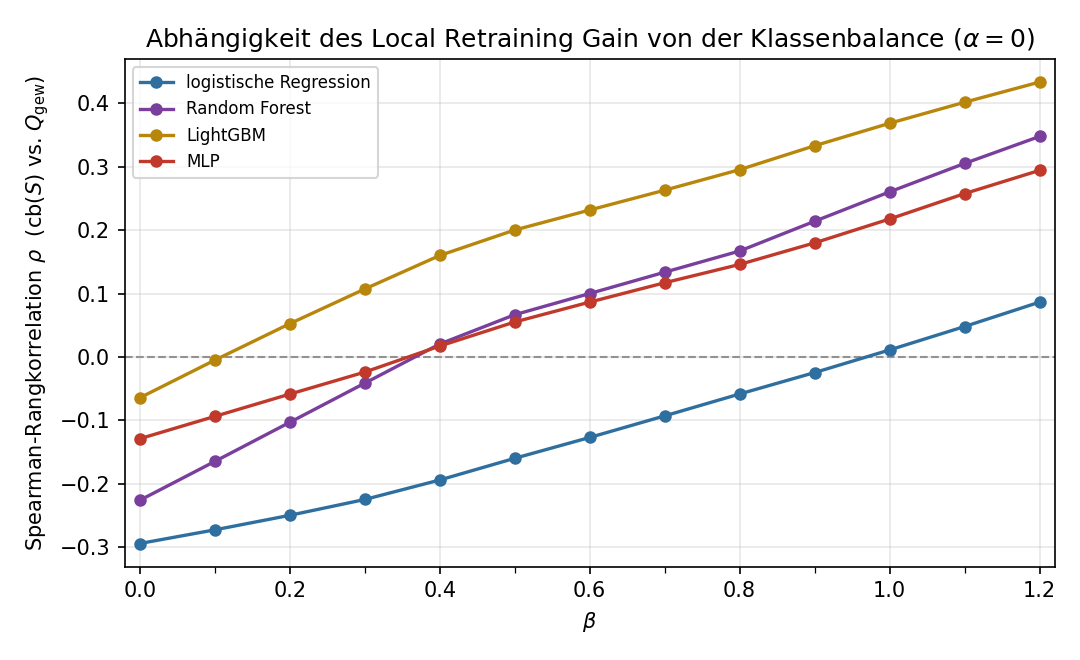
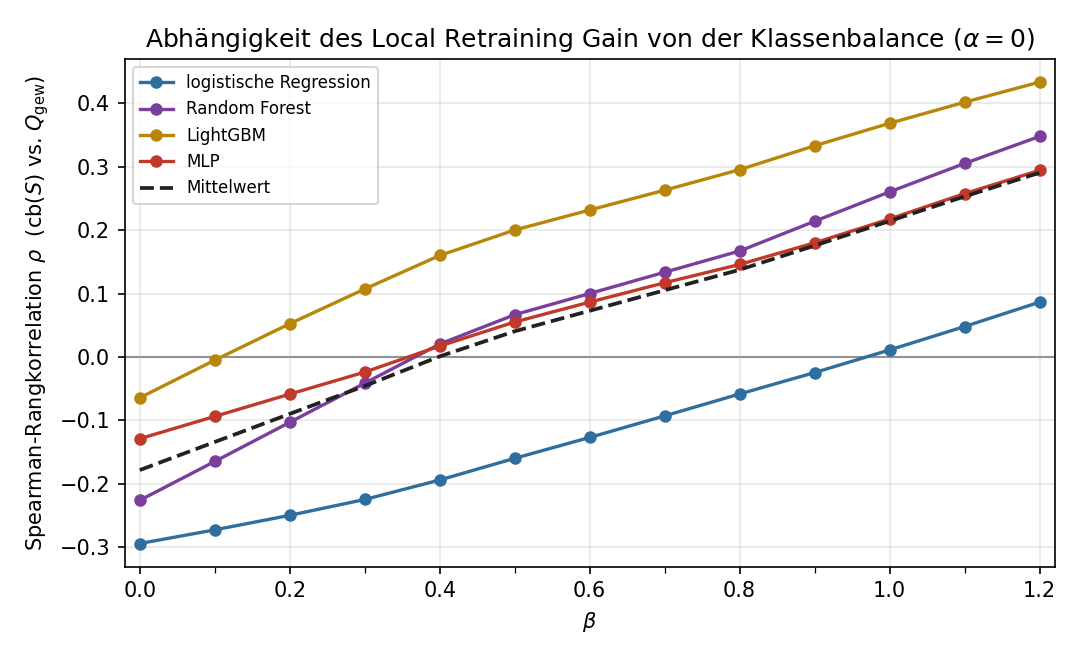
updated plots

diff --git a/thesis/plots/raw_quality_alpha_sweep/generate_plot.py b/thesis/plots/raw_quality_alpha_sweep/generate_plot.py
@@ -102,7 +102,7 @@ def calculate_sweep(frame: pd.DataFrame) -> pd.DataFrame:
 
 def plot_sweep(table: pd.DataFrame, output_path: Path) -> None:
     fig, ax = plt.subplots(figsize=(7.2, 4.4))
-    ax.axhline(0.0, color="#888888", lw=1.0, ls="--", zorder=1)
+    ax.axhline(0.0, color="#888888", lw=1.0, zorder=1)
     for model in MODELS:
         cell = table[table["model"] == model].sort_values("alpha")
         ax.plot(
@@ -115,6 +115,16 @@ def plot_sweep(table: pd.DataFrame, output_path: Path) -> None:
             label=MODEL_LABELS[model],
             zorder=2,
         )
+    mean = table.groupby("alpha", sort=True)["spearman"].mean()
+    ax.plot(
+        mean.index,
+        mean.to_numpy(),
+        ls="--",
+        color="#222222",
+        lw=1.8,
+        label="Mittelwert",
+        zorder=3,
+    )
     ax.set_xlabel(r"$\alpha$")
     ax.set_ylabel(
         r"Spearman-Rangkorrelation $\rho$ "

diff --git a/thesis/plots/beta_sweep_alpha_0/generate_plot.py b/thesis/plots/beta_sweep_alpha_0/generate_plot.py
@@ -66,11 +66,14 @@ def calculate_sweep(frame: pd.DataFrame) -> pd.DataFrame:
 
 def plot_sweep(table: pd.DataFrame, output_path: Path) -> None:
     fig, ax = plt.subplots(figsize=(7.2, 4.4))
-    ax.axhline(0.0, color="#888888", lw=1.0, ls="--", zorder=1)
+    ax.axhline(0.0, color="#888888", lw=1.0, zorder=1)
     for model in MODELS:
         cell = table[table["model"] == model].sort_values("beta")
         ax.plot(cell["beta"], cell["spearman"], "o-", color=MODEL_COLORS[model],
                 lw=1.6, markersize=5, label=MODEL_LABELS[model], zorder=2)
+    mean = table.groupby("beta", sort=True)["spearman"].mean()
+    ax.plot(mean.index, mean.to_numpy(), ls="--", color="#222222", lw=1.8,
+            label="Mittelwert", zorder=3)
     ax.set_xlabel(r"$\beta$")
     ax.set_ylabel(r"Spearman-Rangkorrelation $\rho$  ($\mathrm{cb}(S)$ vs. $Q_{\mathrm{gew}}$)")
     ax.set_xlim(-0.02, 1.22)

diff --git a/thesis/plots/beta_sweep_alpha_0p7/generate_plot.py b/thesis/plots/beta_sweep_alpha_0p7/generate_plot.py
@@ -66,11 +66,14 @@ def calculate_sweep(frame: pd.DataFrame) -> pd.DataFrame:
 
 def plot_sweep(table: pd.DataFrame, output_path: Path) -> None:
     fig, ax = plt.subplots(figsize=(7.2, 4.4))
-    ax.axhline(0.0, color="#888888", lw=1.0, ls="--", zorder=1)
+    ax.axhline(0.0, color="#888888", lw=1.0, zorder=1)
     for model in MODELS:
         cell = table[table["model"] == model].sort_values("beta")
         ax.plot(cell["beta"], cell["spearman"], "o-", color=MODEL_COLORS[model],
                 lw=1.6, markersize=5, label=MODEL_LABELS[model], zorder=2)
+    mean = table.groupby("beta", sort=True)["spearman"].mean()
+    ax.plot(mean.index, mean.to_numpy(), ls="--", color="#222222", lw=1.8,
+            label="Mittelwert", zorder=3)
     ax.set_xlabel(r"$\beta$")
     ax.set_ylabel(r"Spearman-Rangkorrelation $\rho$  ($\mathrm{cb}(S)$ vs. $Q_{\mathrm{gew}}$)")
     ax.set_xlim(-0.02, 1.22)
